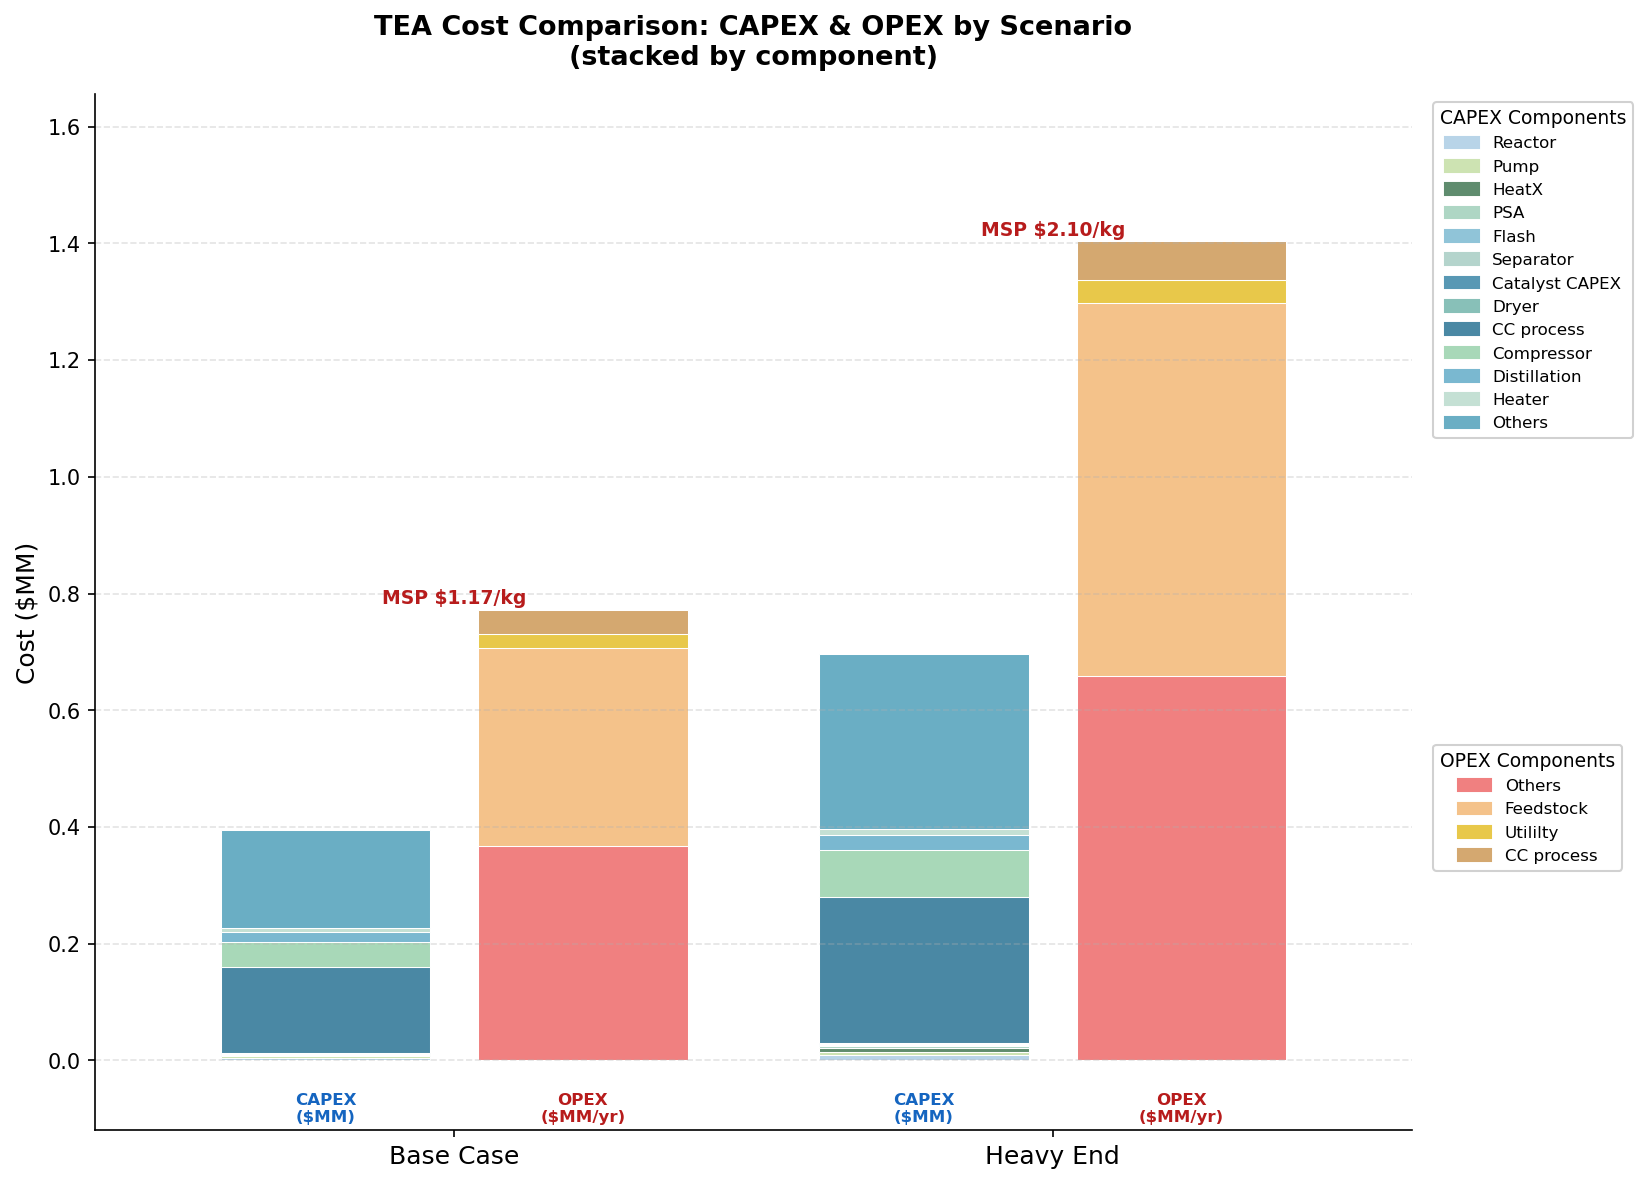
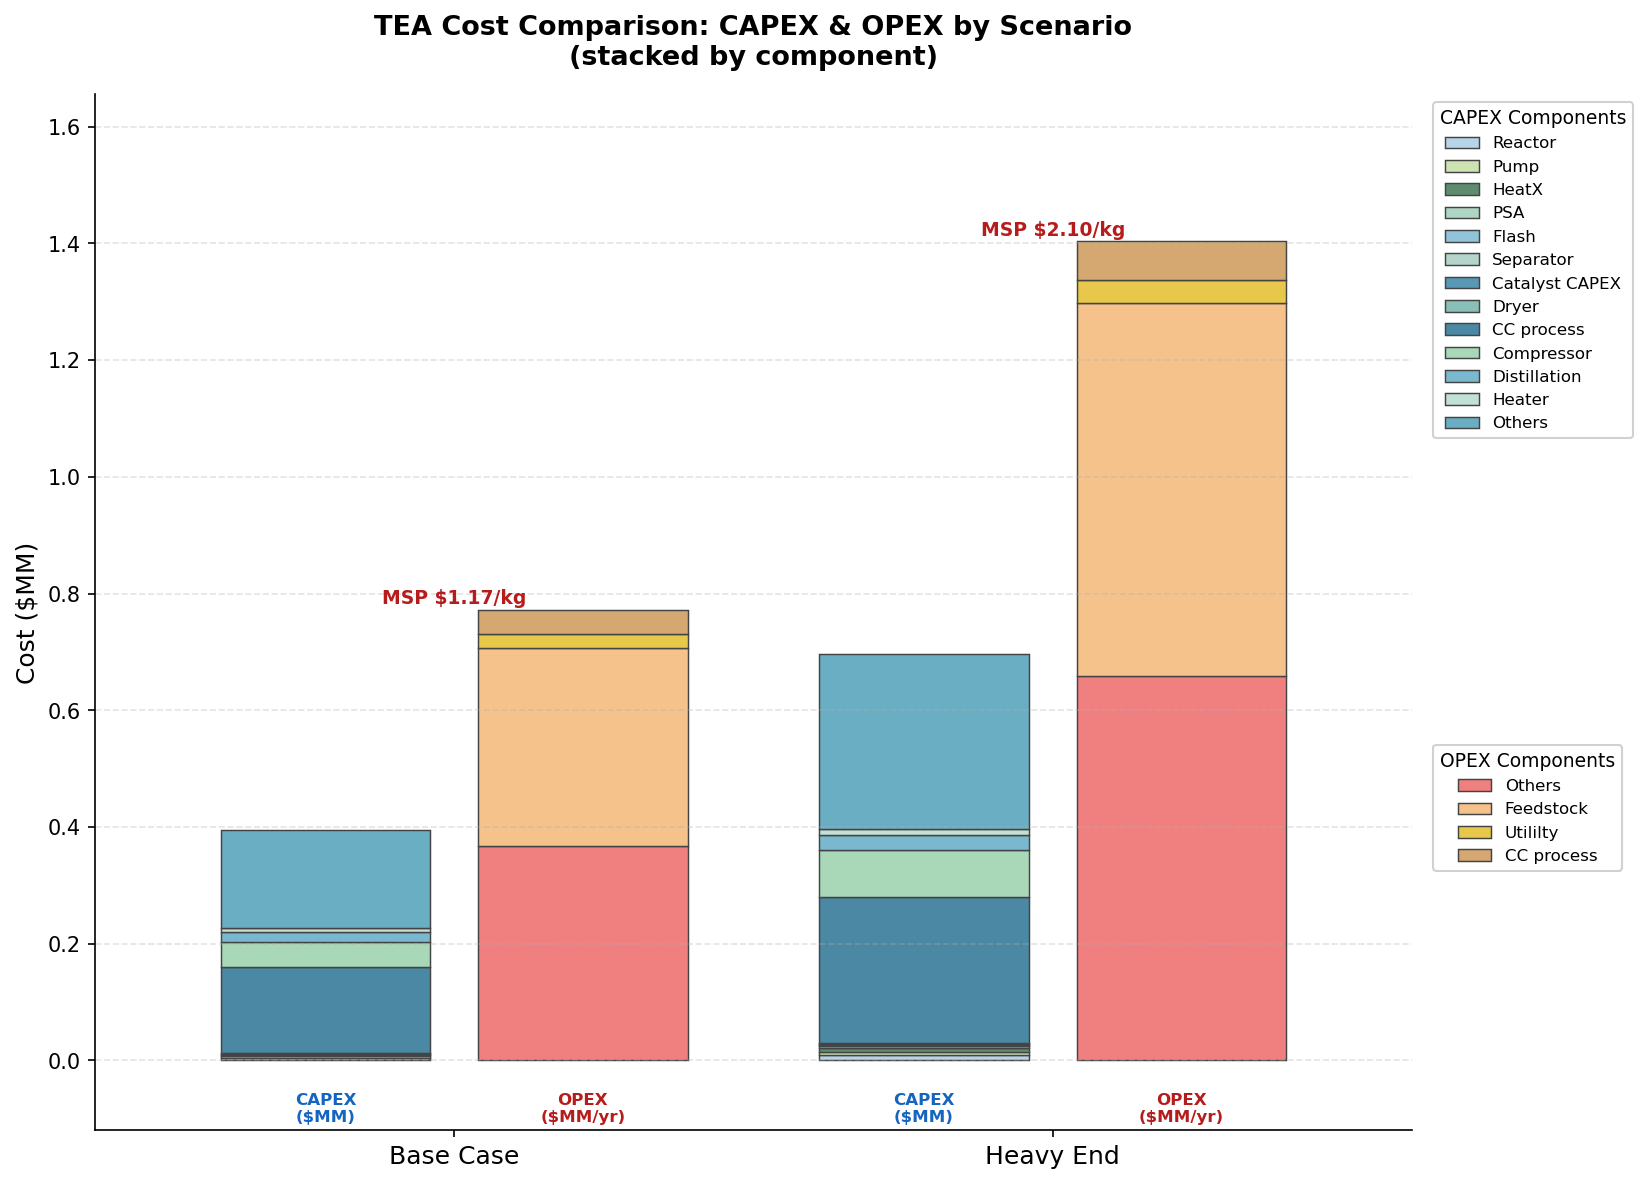
Add borders

diff --git a/twocase_plot.py b/twocase_plot.py
@@ -11,11 +11,6 @@ opex  = xl['OPEX ($MMperyear)'].set_index('Case')
 scenarios   = ['Base case', 'Heavy-end']
 scen_labels = ['Base Case', 'Heavy End']
 
-# capex_colors = ['#1565C0','#1E88E5','#42A5F5','#90CAF9','#0D47A1',
-#                 '#1976D2','#64B5F6','#BBDEFB','#E3F2FD','#82B1FF',
-#                 '#448AFF','#2979FF','#2962FF']
-# opex_colors  = ['#B71C1C','#E53935','#EF9A9A','#FF7043']
-
 # CAPEX: cool blue-teal family
 # TODO: WITH BORDERS
 capex_colors = [
@@ -34,23 +29,6 @@ capex_colors = [
     '#C4E0D4',  # pale teal
     '#6AAEC4',  # medium teal-blue
 ]
-
-# Updated CAPEX: Enhanced contrast with greener accents
-# capex_colors = [
-#     '#D4ECE8',  # very pale teal (Original)
-#     '#B8D4E8',  # light steel blue (Original)
-#     '#CDE3B2',  # soft chartreuse (New Green)
-#     '#A2C5AC',  # pale fern green (New Green)
-#     '#86AF91',  # muted sage green (New Green)
-#     '#5F8C6E',  # deep juniper green (New Green)
-#     '#9CCCC0',  # soft aqua (Original)
-#     '#6AAEC4',  # medium teal-blue (Original)
-#     '#4A7C77',  # dark pine teal (New Green)
-#     '#90C4D8',  # medium sky blue (Original)
-#     '#7AB8D0',  # muted cyan (Original)
-#     '#5898B4',  # deeper blue (Original)
-#     '#4A88A4',  # slate blue (Original)
-# ]
 
 # OPEX: warm pink-peach-gold family
 opex_colors = [
@@ -79,10 +57,9 @@ for si, scen in enumerate(scenarios):
         val = capex.loc[scen, comp]
         ax.bar(capex_pos[si], val, bar_width, bottom=bottom_CAPEX,
                color=capex_colors[ci % len(capex_colors)],
-               edgecolor='white', linewidth=0.5)
+               edgecolor='#444444',  # Dark grey border for better segment separation
+               linewidth=0.7)  # Slightly thicker line for clarity
         bottom_CAPEX += val
-    # ax.text(capex_pos[si], bottom + 0.003, f'{bottom:.2f}',
-    #         ha='center', va='bottom', fontsize=9, fontweight='bold', color='#1565C0')
 
     # OPEX stacked bar
     bottom = 0
@@ -90,13 +67,12 @@ for si, scen in enumerate(scenarios):
         val = opex.loc[scen, comp]
         ax.bar(opex_pos[si], val, bar_width, bottom=bottom,
                color=opex_colors[oi % len(opex_colors)],
-               edgecolor='white', linewidth=0.5)
+               edgecolor='#444444',  # Consistent dark grey border
+               linewidth=0.7)
         bottom += val
-    # ax.text(opex_pos[si], bottom + 0.003, f'{bottom:.2f}',
-    #         ha='center', va='bottom', fontsize=9, fontweight='bold', color='#B71C1C')
-    ax.text(x_centers[si], bottom + 0.003, f'MSP ${bottom+bottom_CAPEX:.2f}/kg',
-            ha='center', va='bottom', fontsize=9, fontweight='bold', color='#B71C1C')
 
+    ax.text(x_centers[si], bottom + 0.003, f'MSP ${bottom + bottom_CAPEX:.2f}/kg',
+            ha='center', va='bottom', fontsize=9, fontweight='bold', color='#B71C1C')
 ax.set_xticks(x_centers)
 ax.set_xticklabels(scen_labels, fontsize=12)
 
@@ -127,9 +103,13 @@ leg1 = ax.legend(handles=capex_patches, title='CAPEX Components',
                  bbox_to_anchor=(1.01, 1), loc='upper left',
                  fontsize=8, title_fontsize=9, framealpha=0.9)
 ax.add_artist(leg1)
-ax.legend(handles=opex_patches, title='OPEX Components',
+lef2 = ax.legend(handles=opex_patches, title='OPEX Components',
           bbox_to_anchor=(1.01, 0.38), loc='upper left',
           fontsize=8, title_fontsize=9, framealpha=0.9)
+
+for patch in leg1.get_patches() + lef2.get_patches():
+    patch.set_edgecolor('#444444')
+    patch.set_linewidth(0.7)
 
 plt.tight_layout()
 plt.savefig('figures/TwoCase_TEA_plot.png', dpi=150, bbox_inches='tight')
